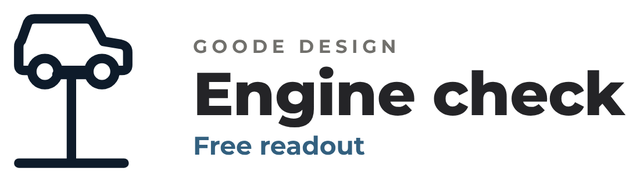
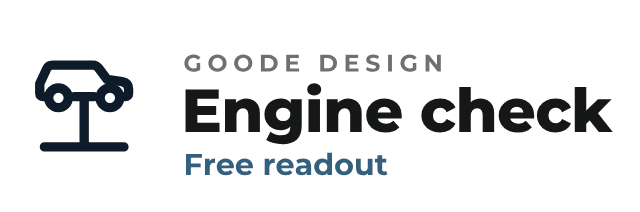
Engine check: swap in the VISUALS 24-grid marks
Navy readout and report mark, chartreuse lit badge with ink glyph, favicon
set, link preview and email lockup, from "handover - 2026-10-19 - VISUALS -
Engine check marks re-exported". Cache-busting ?v= bumped on each.

Claude-Session: https://claude.ai/code/session_01BHu869nrDT4nVyMzbq4EQn

Changed region(s): [[0.2812, 0.2198, 1.0, 0.7143], [0.0, 0.0549, 0.2188, 0.9341], [0.2812, 0.7143, 0.625, 0.8516]]

diff --git a/engine-check/report/index.html b/engine-check/report/index.html
@@ -17,16 +17,16 @@
 <meta property="og:description" content="Find out where your team loses momentum and what to fix first.">
 <meta property="og:url" content="https://thatsgoodedesign.com/engine-check/">
 <meta property="og:type" content="website">
-<meta property="og:image" content="https://thatsgoodedesign.com/assets/flight-check/engine-check-og.png">
+<meta property="og:image" content="https://thatsgoodedesign.com/assets/flight-check/engine-check-og.png?v=2">
 <meta property="og:image:width" content="1200">
 <meta property="og:image:height" content="630">
 <meta name="twitter:card" content="summary_large_image">
-<meta name="twitter:image" content="https://thatsgoodedesign.com/assets/flight-check/engine-check-og.png">
+<meta name="twitter:image" content="https://thatsgoodedesign.com/assets/flight-check/engine-check-og.png?v=2">
 <!-- 19 Oct 2026 (run:os, CLUTCH-84): engine check mark (VISUALS, mark C). Favicon is the
      chartreuse rounded avatar; link preview is the ink lockup. -->
-<link rel="icon" href="../../assets/flight-check/engine-check-favicon-32.png" type="image/png" sizes="32x32">
-<link rel="icon" href="../../assets/flight-check/engine-check-icon-512.png" type="image/png" sizes="512x512">
-<link rel="apple-touch-icon" href="../../assets/flight-check/engine-check-apple-touch-icon.png">
+<link rel="icon" href="../../assets/flight-check/engine-check-favicon-32.png?v=2" type="image/png" sizes="32x32">
+<link rel="icon" href="../../assets/flight-check/engine-check-icon-512.png?v=2" type="image/png" sizes="512x512">
+<link rel="apple-touch-icon" href="../../assets/flight-check/engine-check-apple-touch-icon.png?v=2">
 <link rel="preconnect" href="https://fonts.googleapis.com">
 <link rel="preconnect" href="https://fonts.gstatic.com" crossorigin>
 <link rel="stylesheet" href="https://fonts.googleapis.com/css2?family=Montserrat:ital,wght@0,400;0,500;0,600;0,700;0,800;1,400&amp;display=swap">
@@ -541,7 +541,7 @@ a.rp-cta:hover h2 { text-decoration: underline; text-underline-offset: 4px; }
 
 <main id="main">
   <section class="fc-band">
-    <div id="fc-root" data-check="engine" data-mode="report" data-lockup="../../assets/flight-check/engine-check-lockup-clear.png" data-icon="../../assets/icons/product-engine-check-lit.svg?v=3" data-mark="../../assets/icons/product-engine-check-mark-navy.svg" data-preview="../../assets/flight-check/engine-check-readout-preview.png" data-calendly="https://calendly.com/matt-thatsgoodedesign/chatt-with-matt">
+    <div id="fc-root" data-check="engine" data-mode="report" data-lockup="../../assets/flight-check/engine-check-lockup-clear.png" data-icon="../../assets/icons/product-engine-check-lit.svg?v=4" data-mark="../../assets/icons/product-engine-check-mark-navy.svg?v=2" data-preview="../../assets/flight-check/engine-check-readout-preview.png" data-calendly="https://calendly.com/matt-thatsgoodedesign/chatt-with-matt">
       <noscript><p>Your report needs JavaScript to build. Turn it on, or reply to your report email and Matt will send a PDF.</p></noscript>
     </div>
   </section>

diff --git a/engine-check/index.html b/engine-check/index.html
@@ -13,16 +13,16 @@
 <meta property="og:description" content="Find out where your team loses momentum and what to fix first.">
 <meta property="og:url" content="https://thatsgoodedesign.com/engine-check/">
 <meta property="og:type" content="website">
-<meta property="og:image" content="https://thatsgoodedesign.com/assets/flight-check/engine-check-og.png">
+<meta property="og:image" content="https://thatsgoodedesign.com/assets/flight-check/engine-check-og.png?v=2">
 <meta property="og:image:width" content="1200">
 <meta property="og:image:height" content="630">
 <meta name="twitter:card" content="summary_large_image">
-<meta name="twitter:image" content="https://thatsgoodedesign.com/assets/flight-check/engine-check-og.png">
+<meta name="twitter:image" content="https://thatsgoodedesign.com/assets/flight-check/engine-check-og.png?v=2">
 <!-- 19 Oct 2026 (run:os, CLUTCH-84): engine check mark (VISUALS, mark C). Favicon is the
      chartreuse rounded avatar; link preview is the ink lockup. -->
-<link rel="icon" href="../assets/flight-check/engine-check-favicon-32.png" type="image/png" sizes="32x32">
-<link rel="icon" href="../assets/flight-check/engine-check-icon-512.png" type="image/png" sizes="512x512">
-<link rel="apple-touch-icon" href="../assets/flight-check/engine-check-apple-touch-icon.png">
+<link rel="icon" href="../assets/flight-check/engine-check-favicon-32.png?v=2" type="image/png" sizes="32x32">
+<link rel="icon" href="../assets/flight-check/engine-check-icon-512.png?v=2" type="image/png" sizes="512x512">
+<link rel="apple-touch-icon" href="../assets/flight-check/engine-check-apple-touch-icon.png?v=2">
 <link rel="preconnect" href="https://fonts.googleapis.com">
 <link rel="preconnect" href="https://fonts.gstatic.com" crossorigin>
 <link rel="stylesheet" href="https://fonts.googleapis.com/css2?family=Montserrat:ital,wght@0,400;0,500;0,600;0,700;0,800;1,400&amp;display=swap">
@@ -346,7 +346,7 @@
 
 <main id="main">
   <section class="fc-band">
-    <div id="fc-root" data-check="engine" data-icon="../assets/icons/product-engine-check-lit.svg?v=3" data-mark="../assets/icons/product-engine-check-mark-navy.svg" data-preview="../assets/flight-check/engine-check-readout-preview.png" data-calendly="https://calendly.com/matt-thatsgoodedesign/chatt-with-matt">
+    <div id="fc-root" data-check="engine" data-icon="../assets/icons/product-engine-check-lit.svg?v=4" data-mark="../assets/icons/product-engine-check-mark-navy.svg?v=2" data-preview="../assets/flight-check/engine-check-readout-preview.png" data-calendly="https://calendly.com/matt-thatsgoodedesign/chatt-with-matt">
       <noscript><p>The engine check needs JavaScript to run the clock and build your readout.</p></noscript>
     </div>
   </section>
